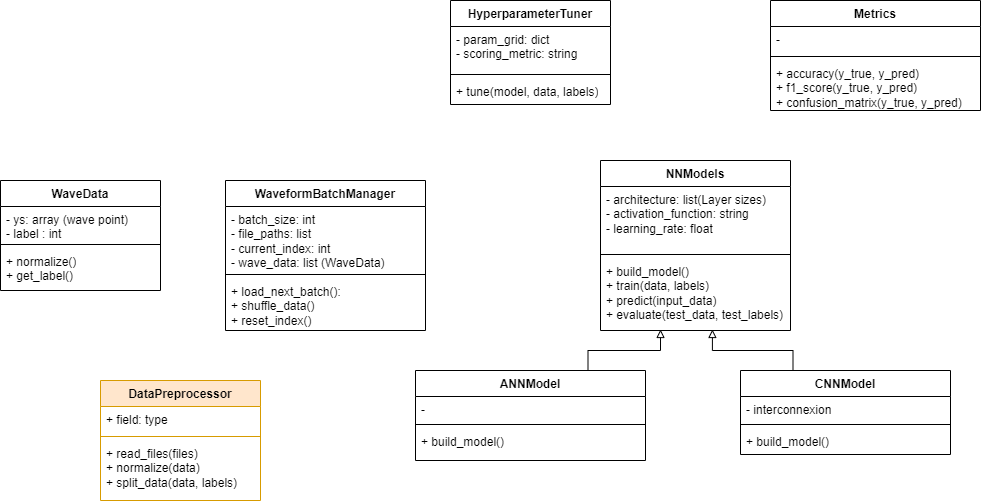
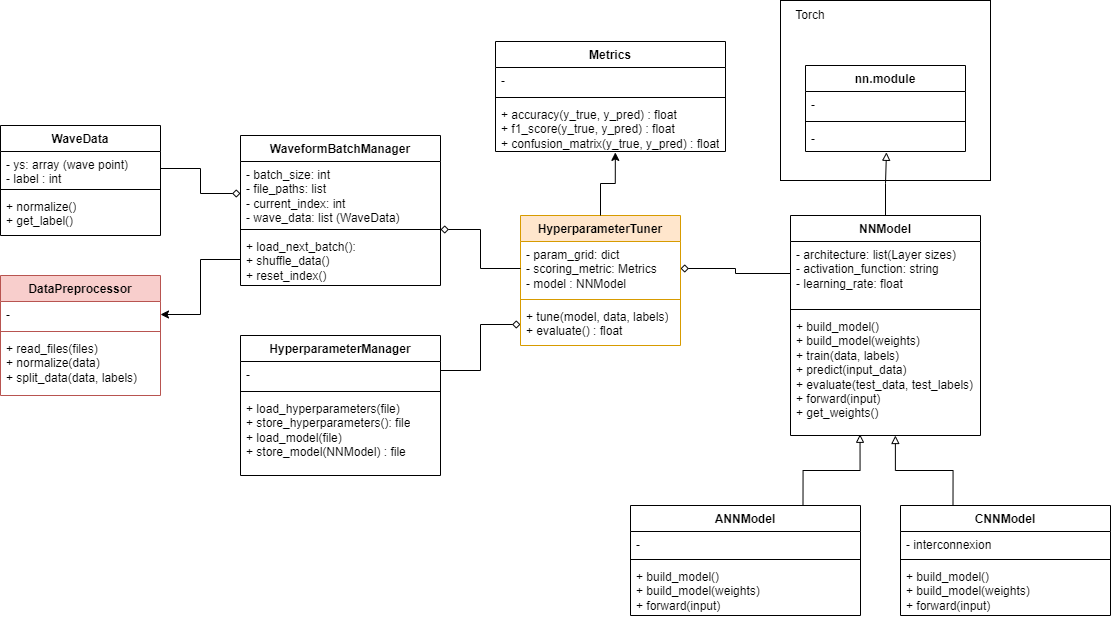
Avancement UML

diff --git a/README.md b/README.md
@@ -1,4 +1,1 @@
 pip install -r requirements.txt
-
-![UML Diagram Waveform](./docs/UML-waveform.png)
-![UML Diagram NN](./docs/UML-NN.png)
